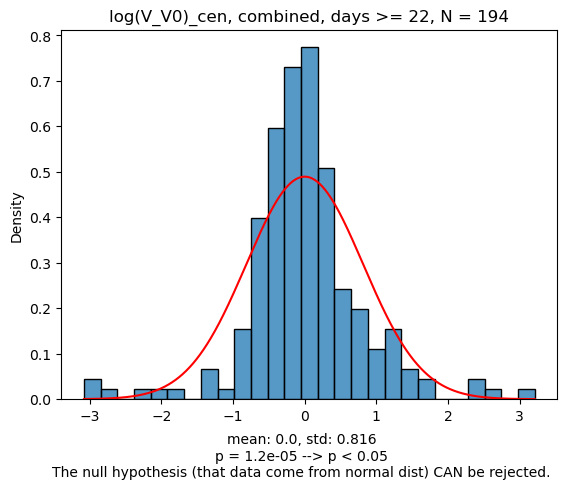
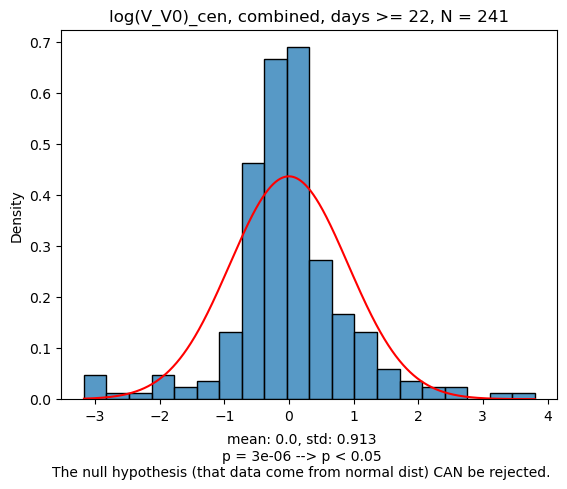
split train&test after normality plots, add bins to normality plots

diff --git a/pyro_model/code/plot_normality.py b/pyro_model/code/plot_normality.py
@@ -6,6 +6,8 @@ import sys
 
 from scipy.stats import norm, normaltest
 
+NBINS = 20
+
 def normality_test(x, alpha):
     k2, p = normaltest(x)
     s = 'p = ' + str(round(p, 6)) + ' --> '
@@ -30,7 +32,7 @@ def create_plot(val, group, min_duration, write_fn):
     x_axis = np.arange(np.min(x), np.max(x), 0.001)
     mean = np.mean(x)
     std = np.std(x)
-    sns.histplot(x, stat='density')
+    sns.histplot(x, stat='density', bins=NBINS)
     plt.plot(x_axis, norm.pdf(x_axis, loc=mean, scale=std), color='r')
     plt.title(val + ', ' + group + ', days >= ' + str(min_duration) + ', N = ' + str(len(x)))
     s_normality, p = normality_test(x, .05)
@@ -50,18 +52,15 @@ write_dir = sys.argv[2].split("=")[1]
 min_duration = int(sys.argv[3].split("=")[1])
 
 # read in dataframe
-df = pd.read_pickle(read_fn)
-# convert list to rows of datapoints
-df = df[['sample', 'drug', 'log(V_V0)_obs']].explode('log(V_V0)_obs')
-df = df.rename(columns={'log(V_V0)_obs': 'log(V_V0)'})
+df = pd.read_csv(read_fn)
 # compute sample mean
-df = df.merge(df.groupby(['sample', 'drug'])['log(V_V0)'].mean().reset_index(name='log(V_V0)_sm'),
-              on=['sample', 'drug'],
+df = df.merge(df.groupby(['Sample', 'Drug'])['log(V_V0)'].mean().reset_index(name='log(V_V0)_sm'),
+              on=['Sample', 'Drug'],
               validate='many_to_one')
 # compute mean-centered measurements
 df['log(V_V0)_cen'] = df['log(V_V0)'] - df['log(V_V0)_sm']
 # add control column
-df['control'] = df['drug'] == 'Vehicle'
+df['control'] = df['Drug'] == 'Vehicle'
 
 create_plot('log(V_V0)_cen', 'combined', min_duration, write_dir + '/combined.png')
 create_plot('log(V_V0)_cen', 'treatment', min_duration, write_dir + '/treatment.png')
